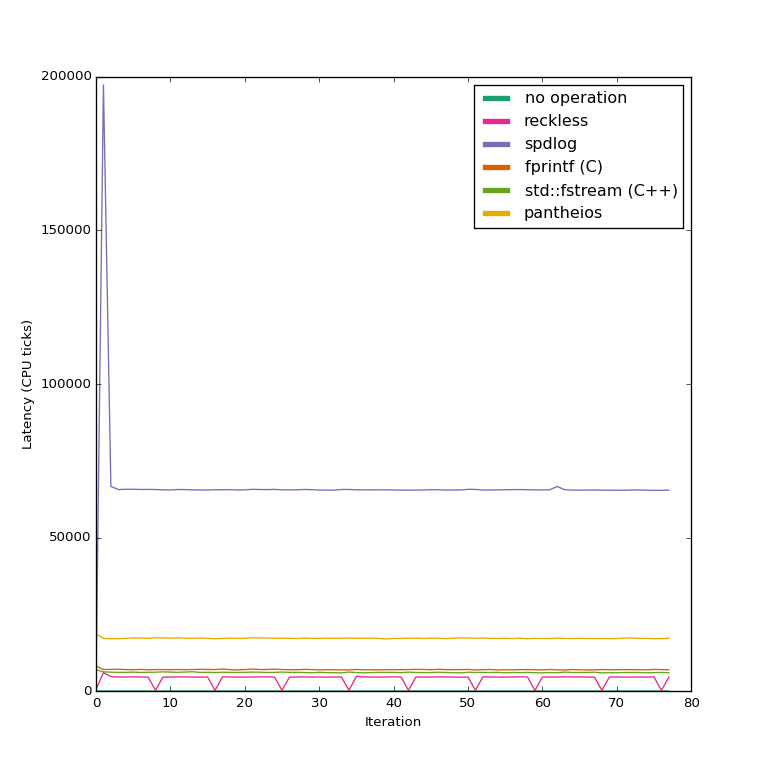
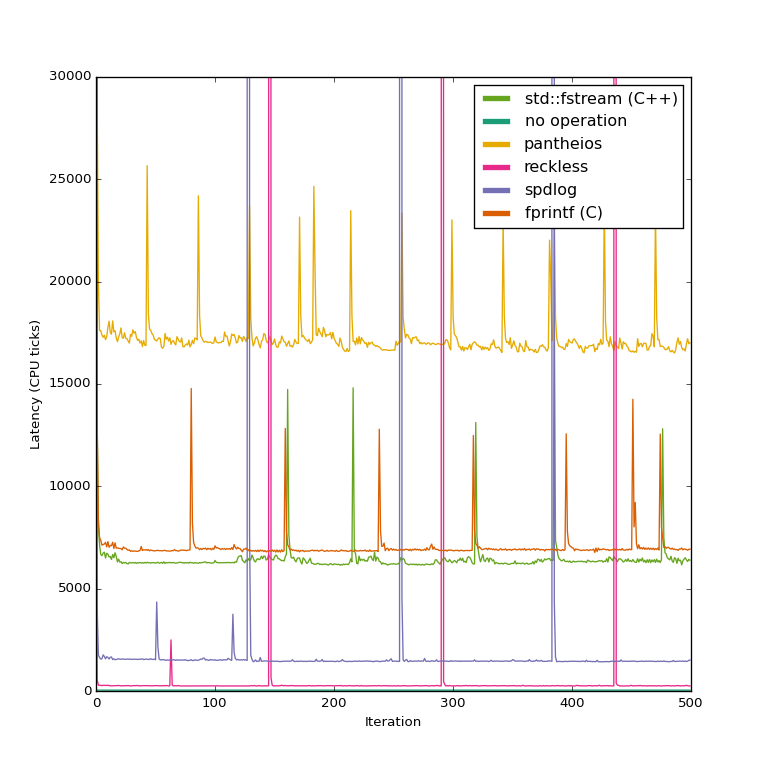
wip

diff --git a/benchmarks/plot.py b/benchmarks/plot.py
@@ -3,6 +3,7 @@ import sys
 from sys import argv, stderr
 from getopt import gnu_getopt
 import os.path
+from math import pi, sqrt, exp
 
 ALL_LIBS = ['nop', 'reckless', 'stdio', 'fstream', 'pantheios', 'spdlog']
 ALL_TESTS = ['periodic_calls', 'call_burst', 'write_files'] #, 'mandelbrot']
@@ -71,11 +72,36 @@ def average2(average_window, data):
     for v in data:
         window.append(v)
         if len(window) == average_window:
-            newdata.append(sum(window)/average_window)
+            newdata.extend([sum(window)/average_window]*average_window)
             del window[:]
     #if len(window) != 0:
     #    window.extend([0]*(average_window-len(window)))
     #    newdata.append(sum(window)/average_window)
+    return newdata
+
+def gaussian_kernel(width):
+    kernel = []
+    std = float(width)/6
+    std = std*std
+    C = 1.0/sqrt(2*pi*std)
+    for x in range(0, width):
+        xd = x - float(width)/2
+        kernel.append(C*exp(-xd*xd/(2*std)))
+
+    n = sum(kernel)
+    kernel = [x/n for x in kernel]
+
+    return kernel
+
+def gaussian_average(average_window, data):
+    kernel = gaussian_kernel(average_window)
+    window = []
+    newdata = []
+    for v in data:
+        window.append(v)
+        if len(window) == average_window:
+            newdata.append(sum([x*k for x, k in zip(window, kernel)]))
+            del window[0]
     return newdata
 
 def parse_ranges(s):
@@ -95,7 +121,7 @@ def parse_ranges(s):
     return result
         
 def main():
-    opts, args = gnu_getopt(argv[1:], 'l:t:c:w:h', ['libs=', 'tests=', 'threads=', 'file=', 'top=', 'help'])
+    opts, args = gnu_getopt(argv[1:], 'l:t:c:w:h', ['libs=', 'tests=', 'threads=', 'file=', 'top=', 'iterations=', 'help'])
     libs = None
     tests = None
     threads = None
@@ -105,6 +131,7 @@ def main():
     height = 858
     show_help = len(args) != 0
     top = None
+    iterations = None
 
     for option, value in opts:
         if option in ('-l', '--libs'):
@@ -121,16 +148,19 @@ def main():
             filename = value
         elif option == '--top':
             top = int(value)
+        elif option == '--iterations':
+            iterations = int(value)
 
     if show_help:
         stderr.write(
             'usage: plot.py [OPTIONS]\n'
             'where OPTIONS are:\n'
-            '-t,--tests    TESTS comma-separated list of tests to plot\n'
-            '-l,--libs     LIBS  comma-separated list of libs to plot\n'
-            '-c,--threads  LIBS  thread-counts to include in a comma-separated list (e.g. 1-2,4)\n'
-            '-w,--window   SIZE  Size of moving-average window\n'
-            '--top         TOP   Top y coordinate for chart\n'
+            '-t,--tests    TESTS      comma-separated list of tests to plot\n'
+            '-l,--libs     LIBS       comma-separated list of libs to plot\n'
+            '-c,--threads  LIBS       thread-counts to include in a comma-separated list (e.g. 1-2,4)\n'
+            '-w,--window   SIZE       Size of moving-average window\n'
+            '--top         TOP        Top y coordinate for chart\n'
+            '--iterations  ITERATIONS Number of iterations to include\n'
             '-h,--help        show this help\n'
             'Available libraries: {}\n'
             'Available tests: {}\n'.format(
@@ -144,10 +174,10 @@ def main():
     if threads is None:
         threads = list(range(1, 5))
 
-    plot(libs, tests, threads, window, top, filename, width, height)
+    plot(libs, tests, threads, window, top, iterations, filename, width, height)
     return 0
 
-def plot(libs, tests, threads_list, window, top, plot_filename, width, height, dpi=96):
+def plot(libs, tests, threads_list, window, top, iterations, plot_filename, width, height, dpi=96):
     import matplotlib
     matplotlib.rc('font', size=10)
     import matplotlib.pyplot as plt
@@ -157,11 +187,12 @@ def plot(libs, tests, threads_list, window, top, plot_filename, width, height, d
         with open(filename, 'r') as f:
             data = f.readlines()
         data = [int(x) for x in data]
-        avg = float(sum(data))/len(data)
         if window is None:
             window = 1 #get_default_window(test)
         if window != 1:
-            data = average2(window, data);
+            data = gaussian_average(window, data);
+        if iterations is not None and iterations<len(data):
+            data = data[:iterations]
         ax.plot(data, '-', label=name, color=color, linewidth=1)
         
     for test in tests:

diff --git a/benchmarks/call_burst.cpp b/benchmarks/call_burst.cpp
@@ -10,12 +10,12 @@ int main()
 {
     unlink("log.txt");
     performance_log::rdtscp_cpuid_clock::bind_cpu(0);
-    performance_log::logger<1024, performance_log::rdtscp_cpuid_clock, std::uint32_t> performance_log;
+    performance_log::logger<16384, performance_log::rdtscp_cpuid_clock, std::uint32_t> performance_log;
 
     {
         LOG_INIT();
 
-        for(int i=0; i!=500; ++i) {
+        for(int i=0; i!=10000; ++i) {
             auto start = performance_log.start();
             LOG(c, i, pi);
             performance_log.stop(start);

diff --git a/doc/performance.md b/doc/performance.md
@@ -157,7 +157,14 @@ Call burst
 
 [benchmarks/call_burst.cpp](../benchmarks/call_burst.cpp)
 
-This scenario stresses the log by generating log messages as fast as it can,
-filling up the log buffer. Spdlog performs well until the buffer fills up, at
+This scenario stresses the log by generating messages as fast as it can,
+filling up the buffer. The plot is zoomed in to show all the libraries and the
+asynchronous libraries appear to perform well, but there are now spikes in the
+call latency that appear when the buffer fills up. These spikes in fact go as
+far as 25 000 000 ticks for spdlog, and 750 000 ticks for reckless. If we
+apply a moving average with a window size of 128 iterations, we get a better
+idea of the overall performance:
+
+Spdlog performs well until the buffer fills up, at
 which point it stalls to empty its buffer to disk. After that it stabilizes,
 but comes out as the slowest performer, followed by pantheios.
